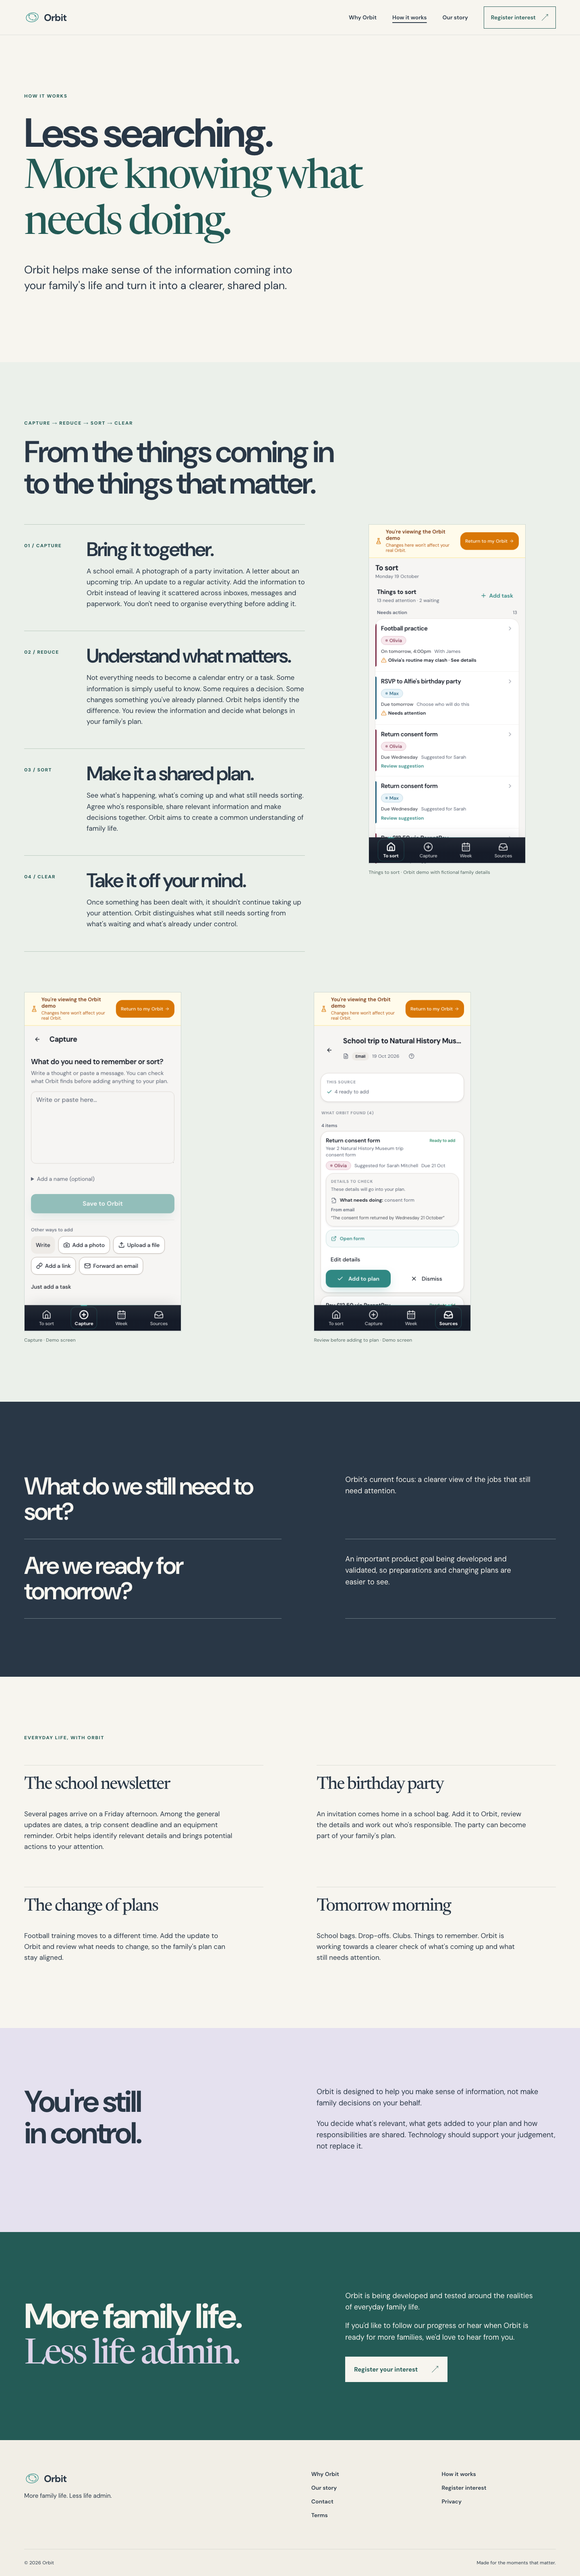
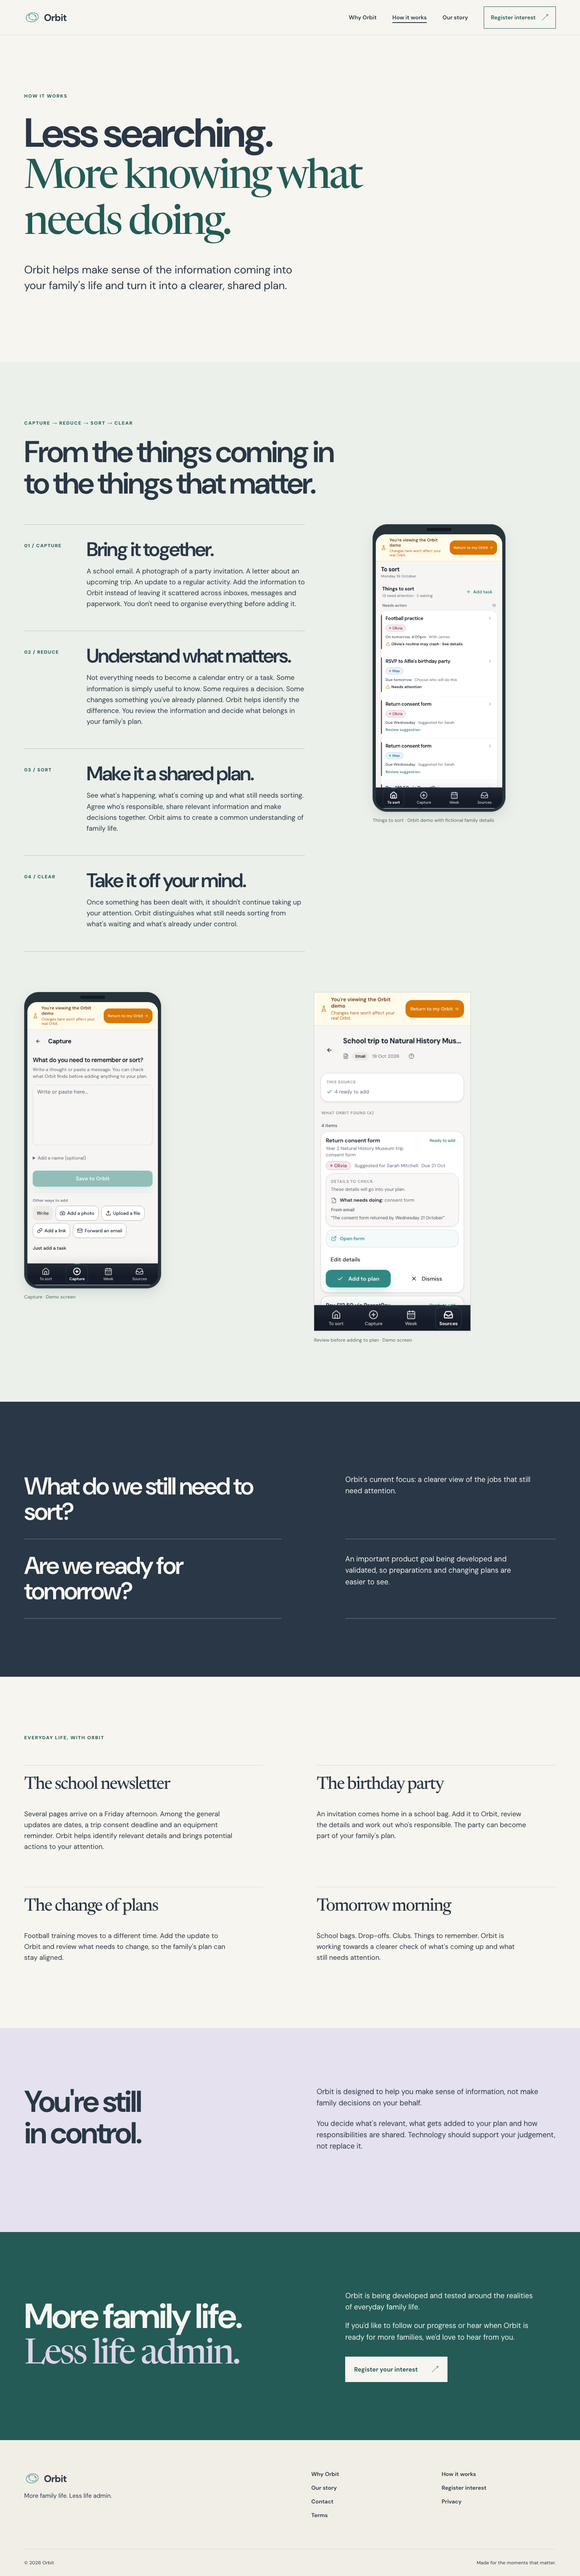
Frame selected Orbit product screens as phones

Changed region(s): [[0.0312, 0.3738, 0.3125, 0.5296], [0.625, 0.1869, 0.9062, 0.3427]]

diff --git a/src/styles.css b/src/styles.css
@@ -61,3 +61,15 @@
   .hero-copy:before{height:205px}
   .kicker{margin-bottom:18px}
 }
+
+/* A restrained device edge makes selected genuine demo screens read as mobile. */
+.phone-frame{position:relative;width:min(100%,330px);padding:24px 7px 7px;border:1px solid #39464b;border-radius:36px;background:#26343a;box-shadow:0 12px 28px rgba(36,55,60,.12),0 2px 4px rgba(36,55,60,.08)}
+.phone-frame:before{content:'';position:absolute;top:8px;left:50%;width:62px;height:8px;transform:translateX(-50%);border-radius:20px;background:#111d23}
+.phone-screen{overflow:hidden;border-radius:24px;background:#f7f5ef}
+.phone-screen img,.product-image .phone-screen img,.screenshot-strip .phone-screen img{display:block;width:100%;height:auto;border:0}
+.product-image-phone{max-width:350px}
+.product-image-phone .phone-frame{margin-inline:auto}
+.product-image-phone figcaption{max-width:330px;margin-inline:auto}
+.screenshot-strip .phone-figure{max-width:340px}
+.screenshot-strip .phone-frame{width:100%}
+@media(max-width:600px){.product-image-phone{width:min(100%,330px)}.screenshot-strip .phone-figure{width:min(100%,330px)}}

diff --git a/docs/creative-direction.md b/docs/creative-direction.md
@@ -4,4 +4,6 @@ The approved concept is **The Weight of Responsibility**, with a visual move fro
 
 The fragments are fictional examples built with HTML and CSS, not screenshots. The collage is decorative and hidden from the accessibility reading flow. Product captures are genuine tracked images from the Orbit demo and are labelled as such. The founder photograph retains its original framing and natural colour. There is no stock family photography, decorative motion or repeated feature-card grid.
 
+Selected product captures sit in a restrained CSS phone frame to make Orbit's mobile experience clear: the early Home introduction, the How it works process image and the Capture screen. The review screen stays unframed, preserving an editorial contrast and a larger view of its details. The image files remain unchanged.
+
 Mobile is intentionally recomposed: a dense twenty-six-fragment field comes first, then fades into “Life is complicated.” The second headline phrase, explanation and actions have clear space below. In the founder teaser, the copy sits to the left of the unchanged photograph on desktop so Ben looks into it; mobile keeps copy before the photo in reading order. The page progressively opens into calmer sections. Keep navigation, copy and actions visually clear even where fragments overlap.

diff --git a/docs/review/README.md b/docs/review/README.md
@@ -11,4 +11,6 @@ Captured from the local static build in headless Chrome on 24 November 2026. Ful
 
 Focused refinement captures: [hero desktop](home-hero-1440.png), [hero mobile](home-hero-375.png), [founder desktop](home-founder-1440.png), and [founder mobile](home-founder-375.png). The homepage hero moves from forty layered source formats on the left into clear copy on the right, with two smaller fragments lingering at the edge. Mobile places twenty-six fragments above the headline and lets them fade as the proposition resolves. Ben looks into the copy from the right on desktop.
 
+Product presentation captures: [Home desktop](home-product-1440.png), [Home mobile](home-product-375.png), [How it works process desktop](how-process-1440.png), [How it works process mobile](how-process-375.png), [screen pairing desktop](how-screens-1440.png), and [screen pairing mobile](how-screens-375.png). Selected genuine demo screens use a subtle CSS phone frame; the review screen remains unframed.
+
 Additional measured layouts: 390, 768 and 1024 px. No horizontal overflow or broken images at any reviewed width. Mobile menu open/close and Escape dismissal passed. Local links and assets passed `npm run check` (256 checks). See `docs/publication-checklist.md` for remaining blockers.
